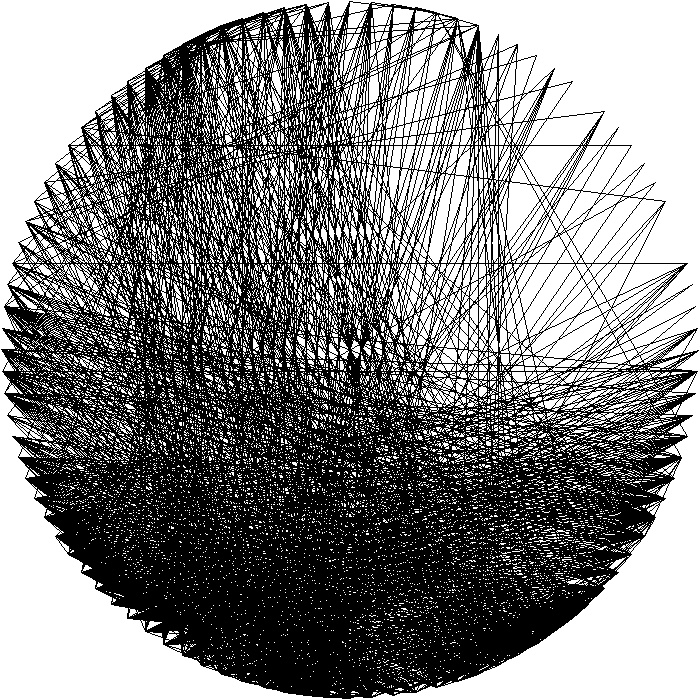
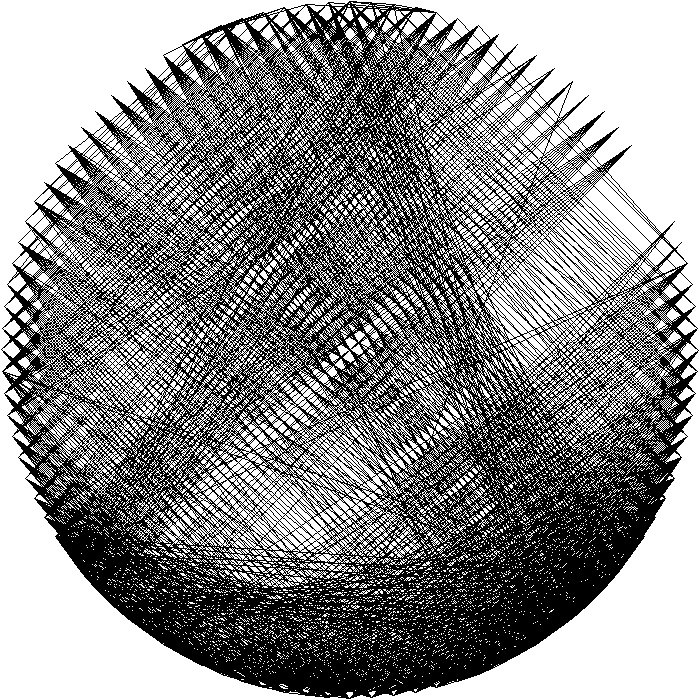
progress

diff --git a/main.py b/main.py
@@ -4,13 +4,15 @@ import cv2 as cv
 import numpy as np
 import time
 
+import utils
+
 # CONSTANTS/CONFIG
 IMPORT_FILEPATH = "res/mona_lisa.jpg"
 
 PINNED_FILEPATH = "output/pinned.jpg"
 OUTPUT_FILEPATH = "output/output.jpg"
 PINS_OUTPUT_FILEPATH = "output/string_path.txt"
-EDGE_OUTPUT_FILEPATH = "output/edges.jpg"
+EDGE_OUTPUT_FILEPATH = "debug/edges.jpg"
 
 NUM_PINS = 100
 NUM_LINES = 1000
@@ -20,97 +22,19 @@ MAX_RESOLUTION = 700
 INVERT_IMAGE = False
 PREVIEW_IMAGE = False
 USE_LINE_LENGTH = True
-USE_LINE_EFFECTIVENESS = False
-
+USE_LINE_EFFECTIVENESS = True
 
 # TO RUN ON CODESPACES:
 # sudo su
 # apt-get update && apt-get install ffmpeg libsm6 libxext6  -y
 # CTRL-SHIFT-P -> Python: Disable Linting (if not already disabled)
 
-def calculate_pins(radius: int, num_pins: int):
-    # Create empty array of 2d points
-    pins = np.empty((num_pins,2), dtype=object)
-
-    # Fill array with pins
-    for i in range(num_pins):
-        angle = (2*np.pi/num_pins)*i
-        x = (int)((radius-3)/2 * np.cos(angle) + radius/2)
-        y = (int)((radius-3)/2 * np.sin(angle) + radius/2)
-        pins[i] = np.array((x,y))
-
-    return pins
-
-def prepare_image(import_filepath: str, max_resolution: tuple, invert_image: bool = False):
-    # Import image
-    img = cv.imread(import_filepath, cv.IMREAD_GRAYSCALE)
-
-    # Invert all bits (if background is black)
-    if invert_image: img = ~img
-
-    # the smaller side of the image fed to the program will be the size of the cropped image
-    crop_size = min(img.shape)
-
-    # crop the image to a square aspect ratio
-    cropped_img = img[(int)(img.shape[0]/2 - crop_size/2):(int)(img.shape[0]/2 + crop_size/2), (int)(img.shape[1]/2 - crop_size/2):(int)(img.shape[1]/2 + crop_size/2)]
-
-    # Lower the resolution
-    radius = min(crop_size, max_resolution)
-    cropped_img = cv.resize(cropped_img, dsize=(radius, radius), interpolation=cv.INTER_CUBIC)
-    
-    return cropped_img, radius
-
-def image_convolution(matrix, kernel):
-    # assuming kernel is symmetric and odd
-    k_size = len(kernel)
-    m_height, m_width = matrix.shape
-    padded = np.pad(matrix, (k_size-1, k_size-1))
-    
-    # iterates through matrix, applies kernel, and sums
-    output_vals = []
-    for i in range(m_height):
-        for j in range(m_width):
-            output_vals.append(np.sum(padded[i:k_size+i, j:k_size+j]*kernel))
-
-    new_img = np.array(output_vals).reshape((m_height, m_width))
-
-    output = np.clip(new_img, 0, 255).astype(np.uint8)
-
-    # Goofy set border to 0
-    # probably better way to do this but whatever
-    output[:,(0,1)] = 0
-    output[(0,1),:] = 0
-
-    return output
-
-def sobel_edge_detection(img):
-    # Blur the image for better edge detection
-    img_blur = cv.GaussianBlur(img, (3,3), 0)
-    
-    # Sobel Edge Detection
-    sobelx = cv.Sobel(src=img_blur, ddepth=cv.CV_64F, dx=1, dy=0, ksize=5) # Sobel Edge Detection on the X axis
-    sobely = cv.Sobel(src=img_blur, ddepth=cv.CV_64F, dx=0, dy=1, ksize=5) # Sobel Edge Detection on the Y axis
-    sobelxy = cv.Sobel(src=img_blur, ddepth=cv.CV_64F, dx=1, dy=1, ksize=5) # Combined X and Y Sobel Edge Detection
-
-    channel_image = sobelxy
-
-    # Normalize the image
-    # https://stackoverflow.com/questions/74861003/rescaling-image-to-get-values-between-0-and-255
-    if channel_image.sum()!=0:
-        channel_image -= channel_image.mean()
-        channel_image /= channel_image.std()
-        channel_image *= 64
-        channel_image += 128
-            
-    channel_image = np.clip(channel_image, 0, 255).astype("uint8")
-    return channel_image
-
 def main():
     # Start time
     start_time = time.perf_counter()
 
     # Get initial image
-    base_img, radius = prepare_image(IMPORT_FILEPATH, MAX_RESOLUTION, INVERT_IMAGE)
+    base_img, radius = utils.prepare_image(IMPORT_FILEPATH, MAX_RESOLUTION, INVERT_IMAGE)
 
     # Create edge detection kernel
     kernel = np.array([[-1, -1, -1], [-1, 8, -1], [-1, -1, -1]])
@@ -118,16 +42,23 @@ def main():
     # Convolute kernel
     # edge_img = ~image_convolution(base_img, kernel)
 
-    edge_img = sobel_edge_detection(base_img)
+    edge_img = ~utils.sobel_edge_detection(base_img)
 
     # Output edge image
     if EDGE_OUTPUT_FILEPATH != "": cv.imwrite(EDGE_OUTPUT_FILEPATH, edge_img)
 
     # Calculate positions of pins around the image
-    pins = calculate_pins(radius, NUM_PINS)
+    pins = utils.calculate_pins(radius, NUM_PINS)
 
     # Initialize 2d array of line costs
     ground_truth_costs = np.empty((NUM_PINS, NUM_PINS))
+
+    scaled_edge_img = (~np.copy(edge_img) * 0.7).astype(np.uint8)
+    scaled_base_img = (~np.copy(base_img) * 0.3).astype(np.uint8)
+
+    # Create proposed new image with line
+    edge_prio_img = ~cv.add(scaled_base_img,scaled_edge_img)
+    cv.imwrite("debug/edge_prio.png", edge_prio_img)
 
     # Calculate lines' cost based on image
     for f_idx, pos_f in enumerate(pins):
@@ -135,17 +66,15 @@ def main():
             # If calculating a line with itself, continue
             if f_idx == t_idx: continue
 
-            # Create proposed new image with line
-            proposed_img = cv.line(np.copy(base_img), pos_f, pos_t, 0, 1)
-            proposed_edge_img = cv.line(np.copy(edge_img), pos_f, pos_t, 0, 1)
+            # Add line to proposed image
+            proposed_img = cv.line(np.copy(edge_prio_img), pos_f, pos_t, 0, 1)
 
-            actual_cost = np.sum(cv.absdiff(proposed_img, base_img)).item()
-            actual_edge_cost = np.sum(cv.absdiff(proposed_edge_img, edge_img)).item()
-            # print(f'Actual cost: {actual_cost}, Actual edge cost: {actual_edge_cost}')
+            # Compare proposed image to actual image
+            actual_cost = np.sum(cv.absdiff(proposed_img, edge_prio_img)).item()
+            # cv.imwrite("edge.png", cv.absdiff(proposed_img, proposed_edge_img))
 
             # Cost is the difference between the images
-            cost = actual_cost - actual_edge_cost * 10
-            cost = -actual_edge_cost
+            cost = actual_cost
 
             # Add cost to array
             ground_truth_costs[f_idx, t_idx] = cost
@@ -162,7 +91,7 @@ def main():
     final_image = np.full((radius, radius), 255, dtype=np.uint8)
 
     # Pin history of every pin (to prevent duplicate lines)
-    per_pin_history = [set() for x in range(NUM_PINS)]
+    per_pin_history = [set() for _ in range(NUM_PINS)]
 
     # Overall pin history (for output)
     pin_history = np.empty(NUM_LINES+1)
@@ -191,7 +120,7 @@ def main():
             # Calculate actual cost
             scaled_cost = (ground_truth_costs[from_idx, dest_idx])
 
-            if USE_LINE_EFFECTIVENESS: scaled_cost -= line_effectiveness.item()
+            if USE_LINE_EFFECTIVENESS: scaled_cost -= (line_effectiveness.item() * 0.1)
 
             # If true, higher length lines will be more prevalent at the cost of a possibly worse image
             if USE_LINE_LENGTH: scaled_cost /= line_length.item()

diff --git a/utils.py b/utils.py
@@ -1,0 +1,77 @@
+import numpy as np
+import cv2 as cv
+
+def calculate_pins(radius: int, num_pins: int):
+    # Create empty array of 2d points
+    pins = np.empty((num_pins,2), dtype=object)
+
+    # Fill array with pins
+    for i in range(num_pins):
+        angle = (2*np.pi/num_pins)*i
+        x = (int)((radius-3)/2 * np.cos(angle) + radius/2)
+        y = (int)((radius-3)/2 * np.sin(angle) + radius/2)
+        pins[i] = np.array((x,y))
+
+    return pins
+
+def prepare_image(import_filepath: str, max_resolution: tuple, invert_image: bool = False):
+    # Import image
+    img = cv.imread(import_filepath, cv.IMREAD_GRAYSCALE)
+
+    # Invert all bits (if background is black)
+    if invert_image: img = ~img
+
+    # the smaller side of the image fed to the program will be the size of the cropped image
+    crop_size = min(img.shape)
+
+    # crop the image to a square aspect ratio
+    cropped_img = img[(int)(img.shape[0]/2 - crop_size/2):(int)(img.shape[0]/2 + crop_size/2), (int)(img.shape[1]/2 - crop_size/2):(int)(img.shape[1]/2 + crop_size/2)]
+
+    # Lower the resolution
+    radius = min(crop_size, max_resolution)
+    cropped_img = cv.resize(cropped_img, dsize=(radius, radius), interpolation=cv.INTER_CUBIC)
+    
+    return cropped_img, radius
+
+def image_convolution(matrix, kernel):
+    # assuming kernel is symmetric and odd
+    k_size = len(kernel)
+    m_height, m_width = matrix.shape
+    padded = np.pad(matrix, (k_size-1, k_size-1))
+    
+    # iterates through matrix, applies kernel, and sums
+    output_vals = []
+    for i in range(m_height):
+        for j in range(m_width):
+            output_vals.append(np.sum(padded[i:k_size+i, j:k_size+j]*kernel))
+
+    new_img = np.array(output_vals).reshape((m_height, m_width))
+
+    output = np.clip(new_img, 0, 255).astype(np.uint8)
+
+    # Goofy set border to 0
+    # probably better way to do this but whatever
+    output[:,(0,1)] = 0
+    output[(0,1),:] = 0
+
+    return output
+
+def sobel_edge_detection(img):
+    # Blur the image for better edge detection
+    img_blur = cv.GaussianBlur(img, (3,3), 0)
+    
+    # Sobel Edge Detection
+    sobelxy = cv.Sobel(src=img_blur, ddepth=cv.CV_64F, dx=1, dy=1, ksize=5) # Combined X and Y Sobel Edge Detection
+
+    channel_image = sobelxy
+
+    # Normalize the image
+    # https://stackoverflow.com/questions/74861003/rescaling-image-to-get-values-between-0-and-255
+    if channel_image.sum()!=0:
+        channel_image -= channel_image.mean()
+        channel_image /= channel_image.std()
+        channel_image *= 64
+        channel_image += 128
+            
+    channel_image = np.clip(channel_image, 0, 255).astype("uint8")
+    return channel_image
